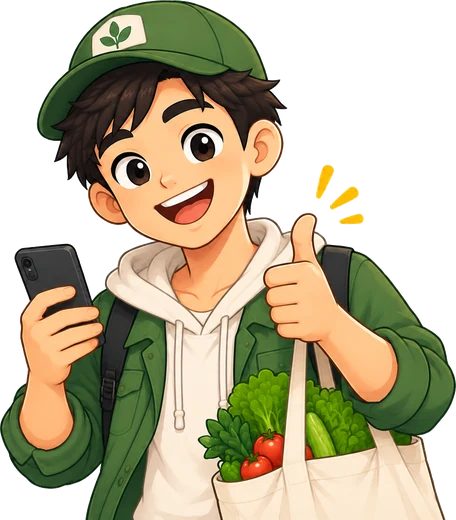
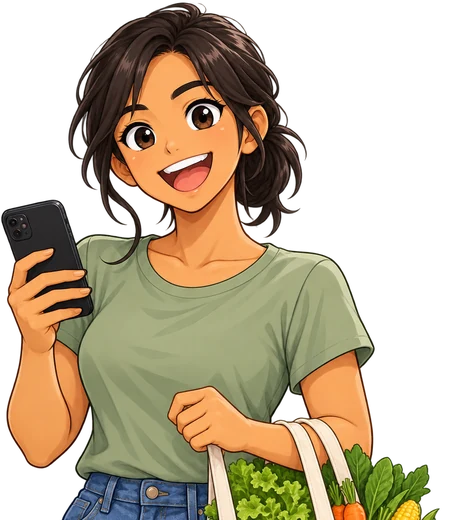
Account creation: the new buyer with her phone, blinking and talking

diff --git a/design/artwork/README.md b/design/artwork/README.md
@@ -13,7 +13,8 @@ a second of loading for a picture that renders 380 pixels wide.
 | `MarketplaceBuyerPoster.png` | `src/assets/anisense-poster-market.webp` (1200 wide: the poster carries a lot of text) | Marketplace poster, buyer accounts: "Fresh from the Farm. Connect directly with local farmers" |
 | `Peeking.png` | `src/assets/juan-peek.webp`, split into `juan-peek-body.webp` + `juan-peek-hand.webp` (+ `juan-peek-mouth-half.webp`, `juan-peek-mouth-shut.webp`: drawn half-open mouth and closed smile) | Signup screens (language, role); the hand layer waves from the wrist, and the mouth layers switch in turn so he says each line, then stops |
 | `FarmerCarryingBasket.png` (already transparent; cropped to the figure's width, 420 × 474) | `src/assets/mascot-basket.webp` (+ `-blink`, `-mouth-half`, `-mouth-shut`: closed lids, a half-open mouth and a closed smile, drawn on the same canvas by a script that fills the eyes and mouth with the face's own skin tones) | The market card at the top of Prices; blinks and talks on a loop |
-| `buyersmascot.png` | `src/assets/buyer-mascot.webp` (+ `buyer-mascot-eyes.webp`, `buyer-mascot-mouth.webp`: drawn closed lids and closed smile) | The role screen when creating an account: he blinks and talks |
+| `BuyerPhone.png` (the faint coloured haze left by its background removal cleared; cropped head to waist, 456 × 520) | `src/assets/buyer-mascot.webp` (+ `buyer-mascot-eyes.webp`, `buyer-mascot-mouth.webp`: closed lids and a closed smile, drawn on the same canvas by a script) | Creating an account as a buyer: the role step and every sign-up question. She blinks, and says each line |
+| `BuyerHi.png` | *(not used yet)* | — |
 | `FarmerHi.png` (already transparent; cropped to the figure's width from the top of the hat, 420 × 435) | `src/assets/mascot-wave-body.webp` (the hand cut away above the wrist) + `-hand` (the hand alone; it rotates from the wrist crease, `transform-origin: 14.47% 61.55%` on `.tm-hand`) + `-eyes` (closed lids) + `-mouth` (closed smile), all drawn on the same canvas by a script | Opening card of the walkthrough, and the Guide: the hand waves, the eyes blink, the smile closes to say hello |
 | `FarmerThumbsUp.png` (already transparent; cropped to the figure's width, 420 × 443) | `src/assets/mascot-thumbs.webp` + `mascot-thumbs-eyes.webp` (closed lids, drawn on the same canvas by a script that fills the eyes with the face's own skin tones) | Last card of the walkthrough, and the achievement pop-up; `-eyes` switches on to blink |
 
